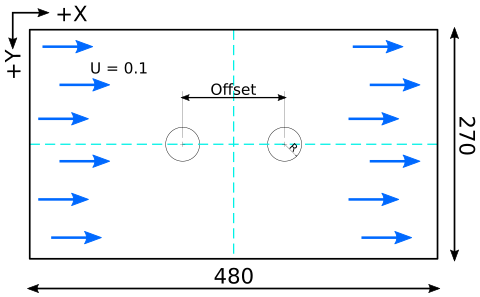
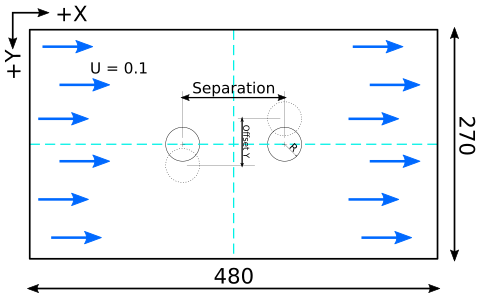
update

Changed region(s): [[0.4062, 0.2727, 0.5938, 0.3333], [0.4062, 0.3939, 0.5625, 0.5758]]

diff --git a/README.md b/README.md
@@ -309,13 +309,13 @@ Sometime we want to inspect a phenomenon where the fluid is in its steady state,
 With this option set to `1` the program will saved ND matrix in every iterations. As we mention before the disk usage will be massive, it is really not a good idea unless you are running a small test with a small number of iterations.
 
 ## Design and Analyze an Experiment
-Here I will show you a working example for designing and analyzing an experiments. Let's say, today I am curious about the behaviors of two cylinders listed alongside the flow direction, with different offsets between them as shown below:
+Here I will show you a working example for designing and analyzing an experiments. Let's say, today I am curious about the behaviors of two cylinders listed alongside the flow direction, with different separations between them as shown below:
 
 ![2cir-60](img/2cir-60.gif)
 
 ![exp_2c](img/exp_2c.png)
 
-The value we want to control is **the initial offset between two cylinders**, and all others need to stay the same.
+The value we want to control is **the initial separations between two cylinders**, and all others need to stay the same.
 
 
 ### Generate and Run a Series of Experiment Setups
@@ -335,7 +335,7 @@ First, I will need to generate all experiment setups. Creating a template setup 
 └── plot.p
 
 ```
-Tweak the parameters in this template to fit the fluid environments, like `BCV`, `LOOP` and `a.nd`, etc. Benchmarking with `speed_test` to select the best PD configuration, check the speed of fluid will not exceed the 0.3x of speed of sound by inspecting the MP4 videos. Next, change the value we want to control (offset in this example) with  macros like `C1X` and `C2X`:
+Tweak the parameters in this template to fit the fluid environments, like `BCV`, `LOOP` and `a.nd`, etc. Benchmarking with `speed_test` to select the best PD configuration, check the speed of fluid will not exceed the 0.3x of speed of sound by inspecting the MP4 videos. Next, change the value we want to control (separation in this example) with  macros like `C1X` and `C2X`:
 ```
 $> cat a.bc
 bc_no 2
@@ -433,7 +433,7 @@ The data represent the amount of offset variations between two cylinders in diff
 
 - **X axis**
 ![2c_offset_x](img/2c_offset_x.png)
-Offset = 40,60,90,160
+Separations = 40,60,90,160
 ![2c_offset_x_2](img/2c_offset_x_2.png)
 
 - **Y axis**
